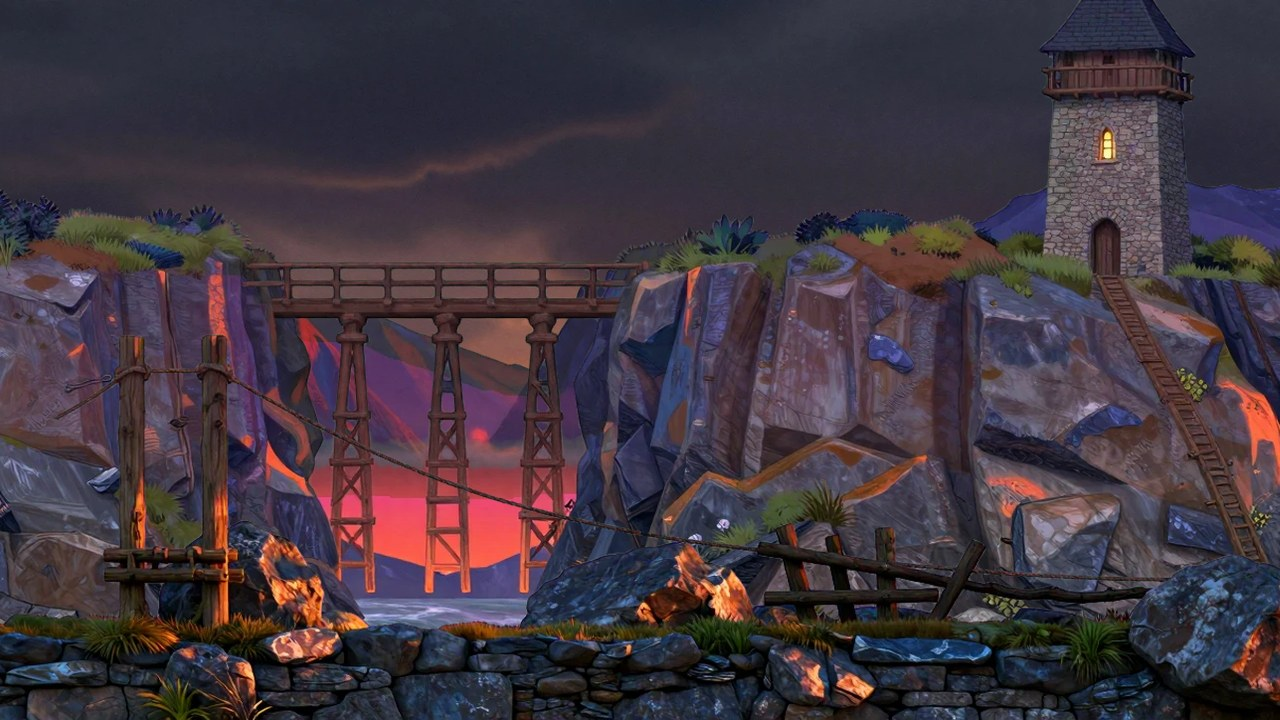
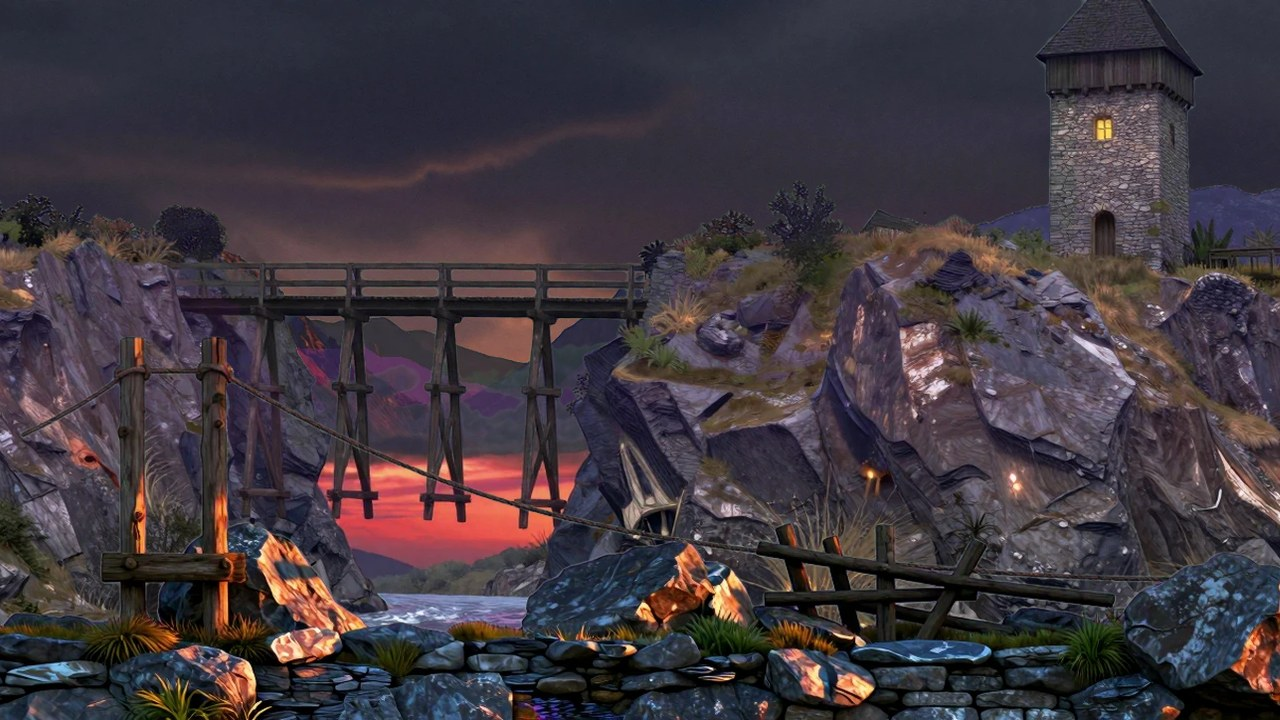
Još realističnije: drugi img2img prolaz (prvi izlaz je draft, 0,66, prompt za pravu fotografiju) za sve slojeve Podgrađa, Urvine i Klisure
Prag magente se sada podešava prema pozadini koju je model zaista naslikao (u drugom prolazu je bleđa), pa nema providnih pravougaonika.
Boje drugog prolaza su 10 % manje zasićene.

diff --git a/tools/realisticno_svet.py b/tools/realisticno_svet.py
@@ -10,7 +10,7 @@ import os
 import numpy as np
 from PIL import Image
 
-from realisticno_common import LAYER, SKY, layer_prompt, sky_prompt
+from realisticno_common import LAYER, SKY, back_prompt, layer_prompt, sky_prompt
 
 ROOT = os.path.dirname(os.path.dirname(os.path.abspath(__file__)))
 WORLD = os.path.join(ROOT, 'dist', 'assets', 'world')
@@ -86,6 +86,11 @@ VISTAS = {
                 'grass'), (90, 120, 60)),
 }
 ORDER = list(VISTAS)
+UNDERGROUND = {'pecina': 'the far rock wall of a huge limestone cave with stalactites, pools and faintly glowing '
+                         'turquoise crystals',
+               'podrum': 'the back wall of an old vaulted stone cellar: brick arches, niches with barrels, oil lamps',
+               'rudnik': 'the back wall of an old silver mine gallery: rough grey rock, timber supports, a wooden '
+                         'ladder, ore carts and lanterns'}
 GLIGHT = {'selo': 'warm morning sunlight', 'klisura': 'bright afternoon sunlight', 'suma': 'soft green forest light',
           'manastir': 'warm afternoon sunlight', 'tvrdjava': 'warm firelight', 'prevoj': 'cold bright winter daylight',
           'pecina': 'dim turquoise cave light', 'podrum': 'dim amber lamplight', 'mocvara': 'cold blue moonlight',
@@ -135,6 +140,8 @@ def make_biome(vista):
             'mid': f'the middle distance of {theme}', 'near': f'the close foreground of {theme}'}
     layers = [{'id': 'sky', 'kind': 'sky', 'strength': 0.86, 'v': 2, 'draw': (lambda: draft_from_world(vista, 'sky', SKY)),
                'prompt': sky_prompt(skyw, light)}]
+    if vista in UNDERGROUND:      # their 'sky' is the back wall of a cave, cellar or mine: never clouds
+        layers[0].update(strength=0.8, v=3, prompt=back_prompt(UNDERGROUND[vista], light))
     for k in ('far', 'mid', 'near'):
         layers.append({'id': k, 'kind': k, 'strength': 0.76,
                        'draw': (lambda kk=k: draft_from_world(vista, kk, LAYER)), 'prompt': layer_prompt(desc[k], light)})

diff --git a/tools/realisticno_post.py b/tools/realisticno_post.py
@@ -50,12 +50,19 @@ def key_layer(raw, draft=None, band=56, lo=70, hi=150, wrap_x=True, spill_band=2
     empty, and in between the magenta key decides, so whatever the model added close to the silhouette stays."""
     rgb = np.asarray(raw.convert('RGB'), np.float32)
     m = magentaness(rgb)
-    a = 1 - np.clip((m - lo) / (hi - lo), 0, 1)
     if draft is not None:
         d = np.asarray(draft.convert('RGB').resize(raw.size, Image.NEAREST), np.float32)
         fg = magentaness(d) < 120
         core = _erode(fg, band, wrap_x)
         out = ~_dilate(fg, band, wrap_x)
+        # The model's magenta is not always pure (a second pass returns it paler): put the upper threshold just
+        # under the background it actually painted, so a pale background still keys out completely.
+        if out.any():
+            m_bg = float(np.percentile(m[out], 10))
+            hi = min(hi, m_bg - 12)
+            lo = min(lo, hi - 45)
+    a = 1 - np.clip((m - lo) / max(1.0, hi - lo), 0, 1)
+    if draft is not None:
         a[core & (m < 110)] = 1           # holes in foliage inside the silhouette still show magenta: keep them keyed
         a[out] = 0
     a8 = (a * 255).astype(np.uint8)

diff --git a/tools/realisticno.py b/tools/realisticno.py
@@ -225,7 +225,11 @@ def _process(bname, it, raw):
         return resize_wrap(im, FINAL_SKY)
     if k in ('far', 'mid', 'near'):
         refined = '_v9k' in os.path.basename(raw)
-        d = Image.open(draft_path(bname, it['key'] + ('-r' if refined else '')))
+        # the silhouette always comes from the clean first draft (the first-pass output is not pure magenta),
+        # with a wider band because two passes may move edges a little further
+        d = Image.open(draft_path(bname, it['key']))
+        if refined:
+            return resize_wrap(key_layer(im, d, band=max(it.get('band', 56), 90)), FINAL_LAYER)
         return resize_wrap(key_layer(im, d, band=it.get('band', 56)), FINAL_LAYER)
     if k == 'tile':
         return resize_wrap_xy(im, FINAL_TILE)
